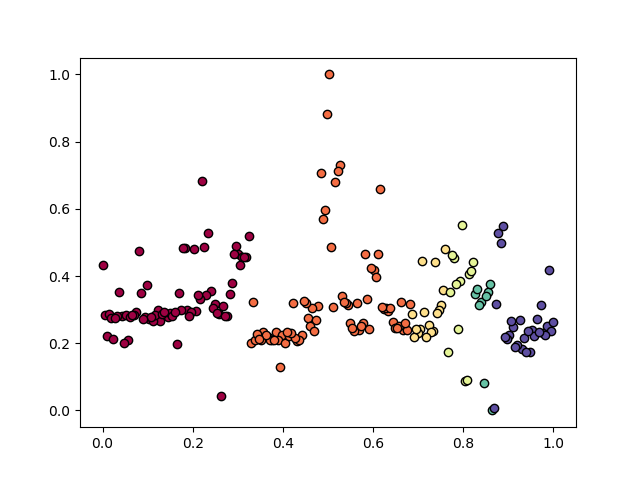
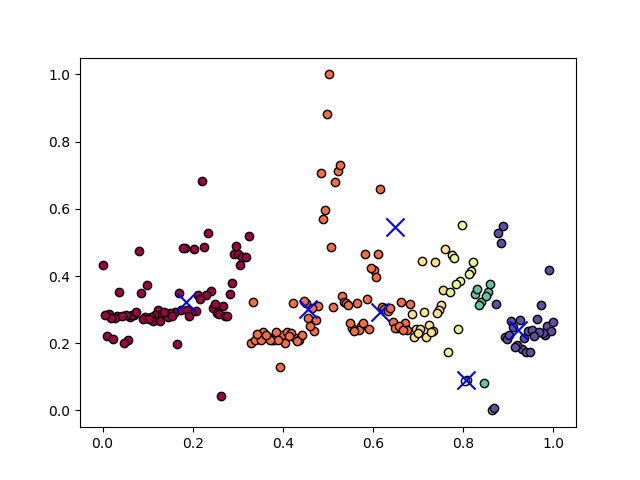
Some Changes

diff --git a/kMeans.py b/kMeans.py
@@ -58,6 +58,11 @@ def plotkMeans(kMValues, kMClasses):
 		plt.plot(xy[:, 0], xy[:, 1], 'o', markerfacecolor=tuple(col),
 				markeredgecolor='k', markersize=6)
 	
+	centroids = kMModel.cluster_centers_
+	plt.scatter(centroids[:, 0], centroids[:, 1],
+			marker='x', s=169, linewidths=3,
+			color='b', zorder=10)
+	
 	plt.savefig("Clustering/cluster_kMeans.png")
 	#plt.show()
 

diff --git a/MeanShift.py b/MeanShift.py
@@ -20,7 +20,6 @@ def plotMeanShift(MSValues, MSClasses):
 	y = MSClasses.values.flatten()
 
 	#Play with the parameters here
-	#default settings: eps=0.5, min_samples=5
 	MSModel = MeanShift().fit(X)
 	
 	MSexpected = y
